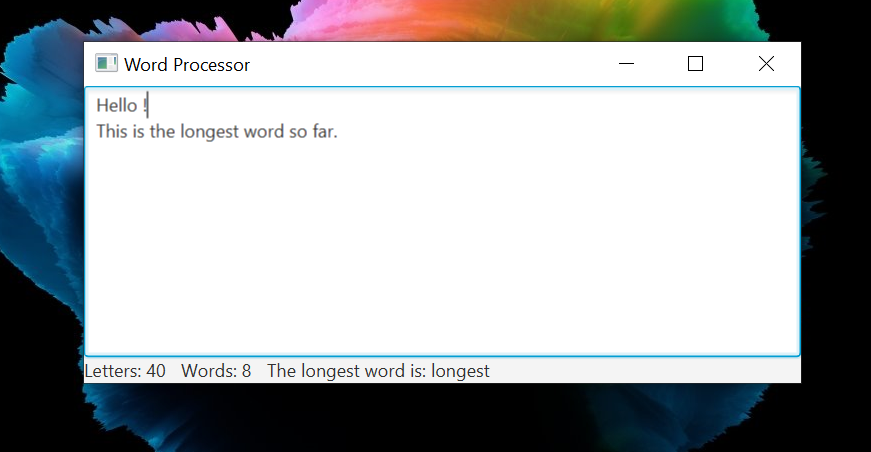
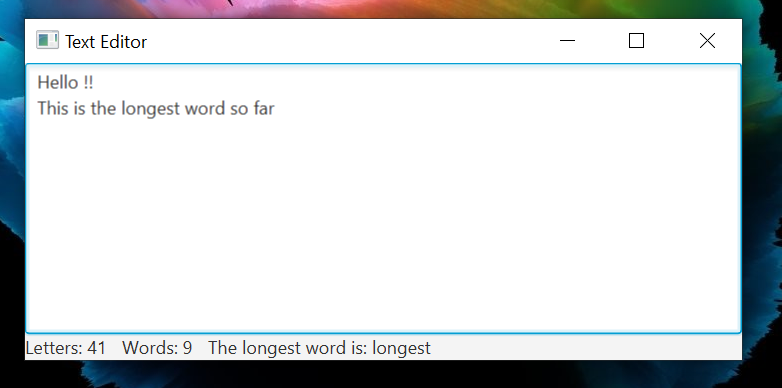
V4

diff --git a/src/main/java/com/mycompany/wordprocessor/App.java b/src/main/java/com/mycompany/wordprocessor/App.java
@@ -52,7 +52,7 @@ public class App extends Application {
 
         Scene scene = new Scene(layout);
         window.setScene(scene);
-        window.setTitle("Word Processor");
+        window.setTitle("Text Editor");
         window.show();
     }
 

diff --git a/src/main/java/com/mycompany/wordprocessor/SystemInfo.java b/src/main/java/com/mycompany/wordprocessor/SystemInfo.java
@@ -1,4 +1,4 @@
-package com.mycompany.wordprocessor;
+package com.mycompany.texteditor;
 
 public class SystemInfo {
 
